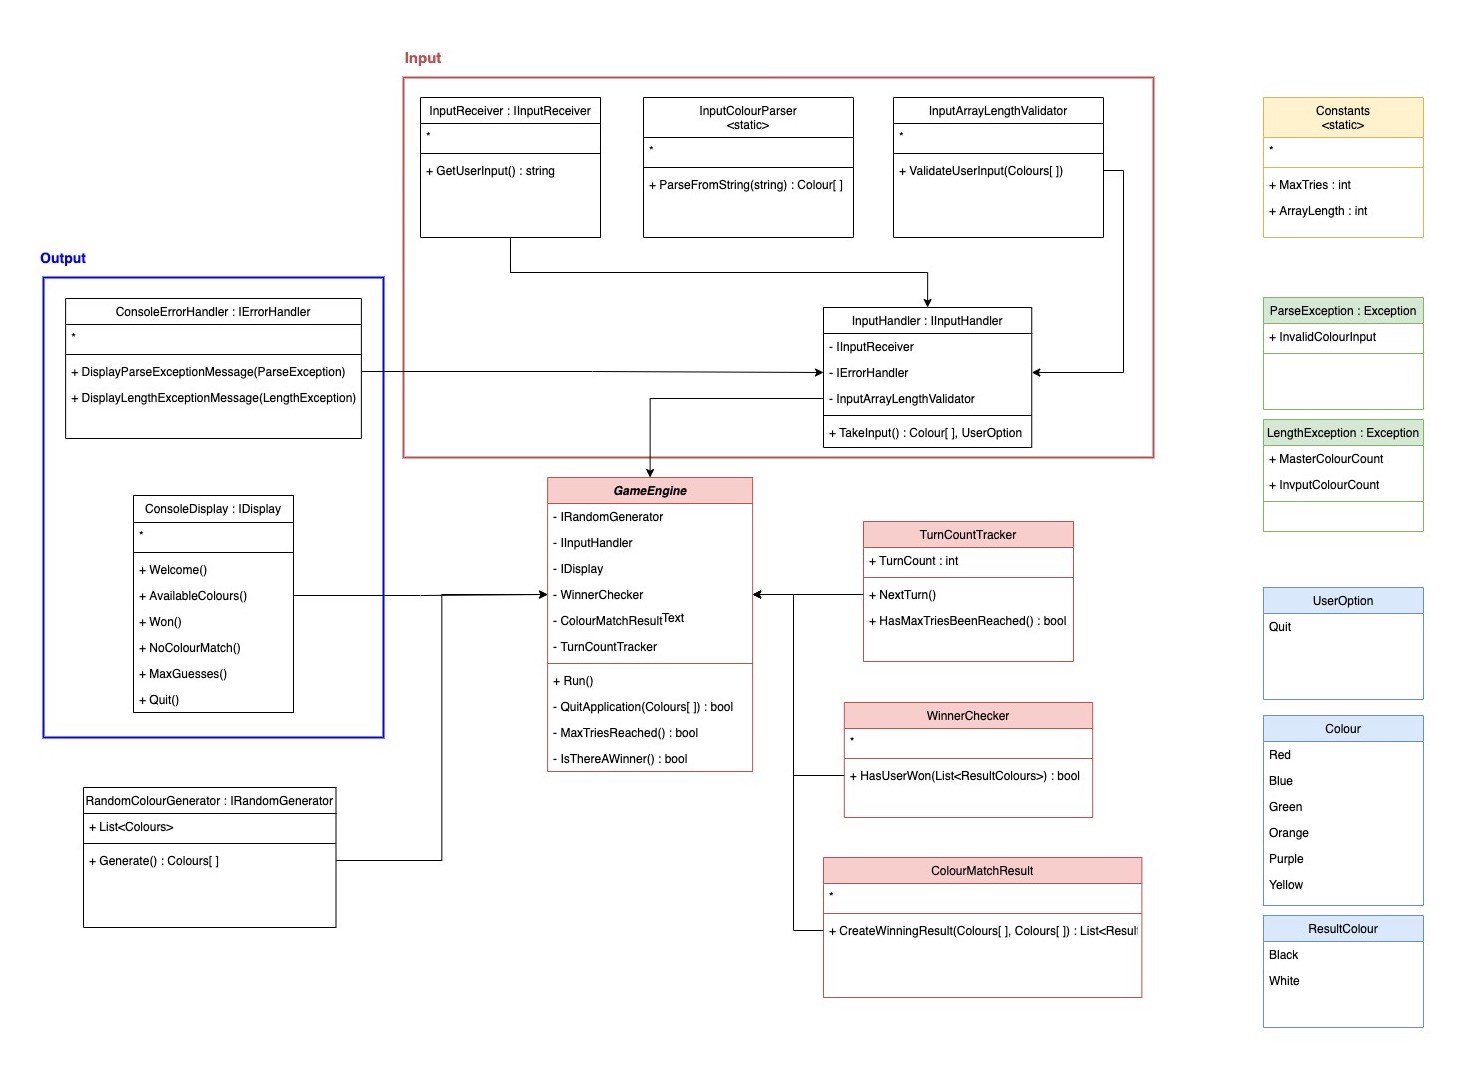
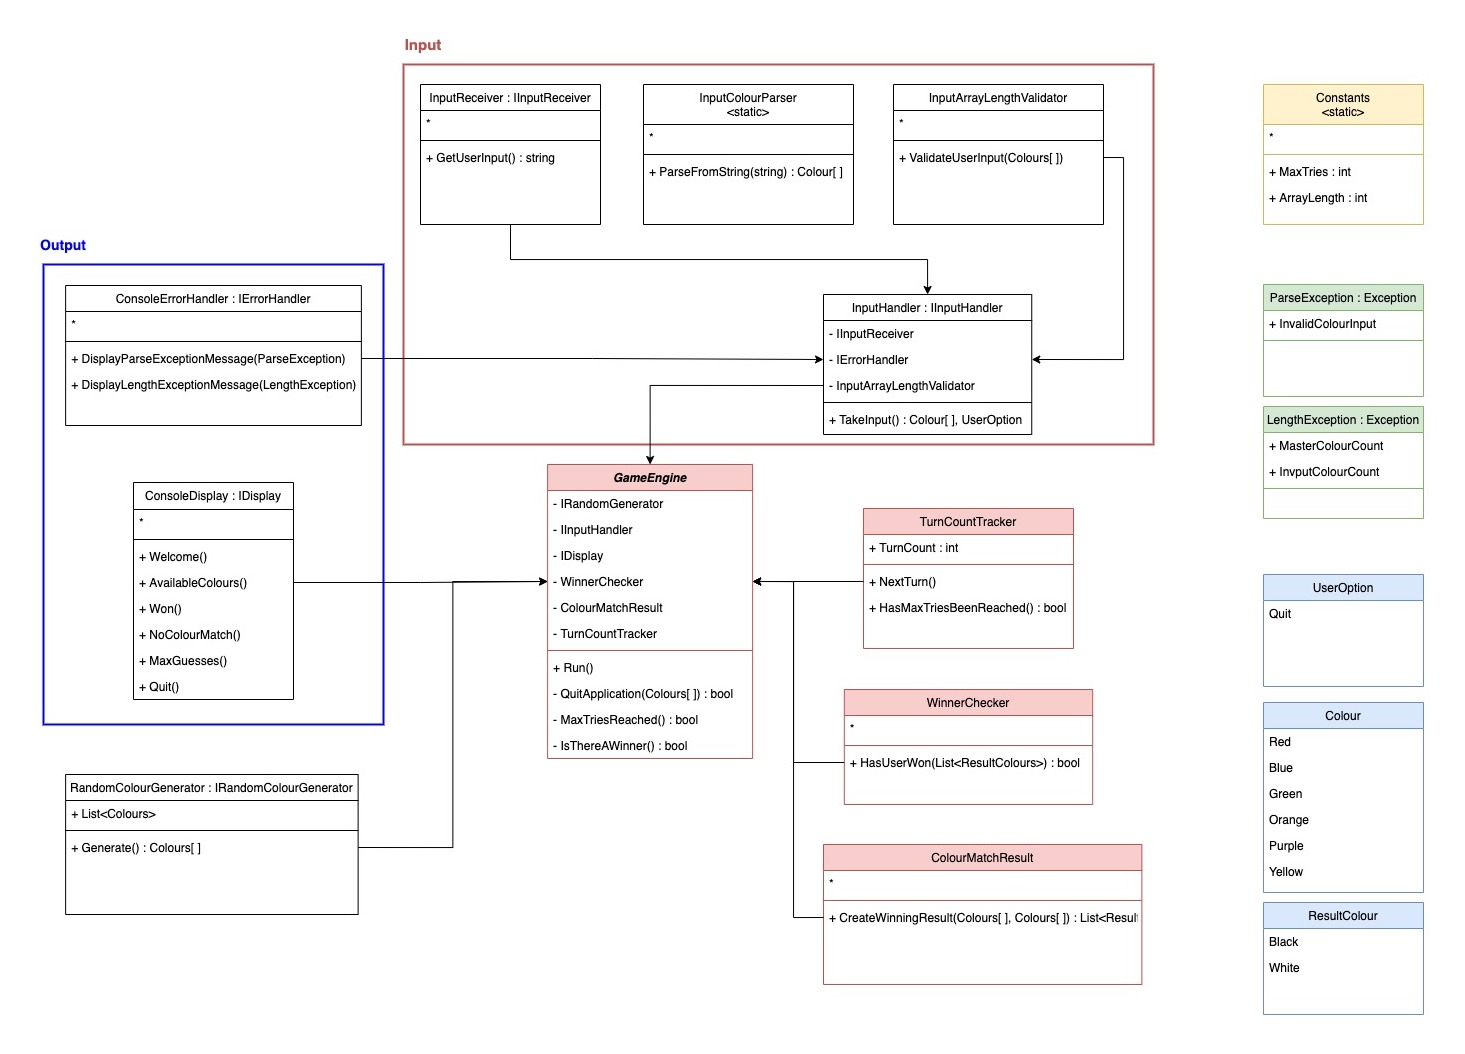
updated class diagram and renaming

diff --git a/MastermindTests/GameEngineTests.cs b/MastermindTests/GameEngineTests.cs
@@ -11,7 +11,7 @@ namespace MastermindTests
         [Fact]
         public void GivenCorrectGuess_LoopShouldStop_AndPrintWinMessage()
         {
-            var mockRandomGen = new Mock<IRandomGenerator>();
+            var mockRandomGen = new Mock<IRandomColourGenerator>();
             mockRandomGen.Setup(rng => rng.Generate())
                 .Returns(new[] { Colour.Blue, Colour.Blue, Colour.Blue, Colour.Blue });
             var mockInputHandler = new Mock<IInputHandler>();
@@ -30,7 +30,7 @@ namespace MastermindTests
         [Fact]
         public void GivenNoColourMatches_ShouldDisplayNoMatchMessage()
         {
-            var mockRandomGen = new Mock<IRandomGenerator>();
+            var mockRandomGen = new Mock<IRandomColourGenerator>();
             mockRandomGen.Setup(rng => rng.Generate())
                 .Returns(new[] { Colour.Blue, Colour.Blue, Colour.Blue, Colour.Blue });
             var mockInputHandler = new Mock<IInputHandler>();
@@ -46,13 +46,12 @@ namespace MastermindTests
             mockRandomGen.Verify(rng => rng.Generate(), Times.Once);
             mockInputHandler.Verify(ge => ge.TakeInput(), Times.Exactly(3));
             mockDisplay.Verify(i => i.NoColourMatch(), Times.Once);
-            mockDisplay.Verify(w => w.Win(), Times.Once);
         }
         
         [Fact]
-        public void GivenMaxTries60Reached_ShouldDisplayMaxGuessesMessage_AndQuit()
+        public void GivenMaxTries60Reached_ShouldDisplayMaxGuessesMessage()
         {
-            var mockRandomGen = new Mock<IRandomGenerator>();
+            var mockRandomGen = new Mock<IRandomColourGenerator>();
             mockRandomGen.Setup(rng => rng.Generate())
                 .Returns(new[] { Colour.Blue, Colour.Blue, Colour.Blue, Colour.Blue });
             var mockInputHandler = new Mock<IInputHandler>();
@@ -71,12 +70,11 @@ namespace MastermindTests
         [Fact]
         public void GivenUserInput_IsUserOptionQuit_ShouldQuitGame()
         {
-            var mockRandomGen = new Mock<IRandomGenerator>();
+            var mockRandomGen = new Mock<IRandomColourGenerator>();
             mockRandomGen.Setup(rng => rng.Generate())
                 .Returns(new[] { Colour.Blue, Colour.Blue, Colour.Blue, Colour.Blue });
             var mockInputHandler = new Mock<IInputHandler>();
-            mockInputHandler.SetupSequence(ge => ge.TakeInput())
-                .Returns(new[] { Colour.Red, Colour.Blue, Colour.Blue, Colour.Blue })
+            mockInputHandler.Setup(ge => ge.TakeInput())
                 .Returns(UserOption.Quit);
             var mockDisplay = new Mock<IDisplay>();
             
@@ -84,7 +82,7 @@ namespace MastermindTests
             gameEngine.Run();
 
             mockRandomGen.Verify(rng => rng.Generate(), Times.Once);
-            mockInputHandler.Verify(i => i.TakeInput(), Times.Exactly(2));
+            mockInputHandler.Verify(i => i.TakeInput(), Times.Exactly(1));
             mockDisplay.Verify(q => q.Quit(), Times.Once);
         }
     }

diff --git a/Mastermind/GameEngine.cs b/Mastermind/GameEngine.cs
@@ -7,16 +7,16 @@ namespace Mastermind
 {
     public class GameEngine
     {
-        private readonly IRandomGenerator _randomGenerator;
+        private readonly IRandomColourGenerator _randomColourGenerator;
         private readonly IInputHandler _inputHandler;
         private readonly IDisplay _display;
         private readonly ColourMatchResult _colourMatchResult;
         private readonly TurnCountTracker _turnCountTracker;
         private readonly WinnerChecker _winnerChecker;
 
-        public GameEngine(IRandomGenerator randomGenerator, IInputHandler inputHandler, IDisplay display)
+        public GameEngine(IRandomColourGenerator randomColourGenerator, IInputHandler inputHandler, IDisplay display)
         {
-            _randomGenerator = randomGenerator;
+            _randomColourGenerator = randomColourGenerator;
             _inputHandler = inputHandler;
             _display = display;
             _colourMatchResult = new ColourMatchResult();
@@ -30,15 +30,15 @@ namespace Mastermind
             _display.DisplayAvailableColours();
             var hasAWinner = false;
             
-            var masterColours = _randomGenerator.Generate();
+            var masterColours = _randomColourGenerator.Generate();
             //Console.WriteLine("MASTER COLOURS: "+ string.Join(", ", masterColours));
 
             while (!hasAWinner && !HasMaxTriesReached())
             {
-                // get validated input
+                // Get validated input
                 var userAnswer = _inputHandler.TakeInput();
 
-                // user selected menu option
+                // User selected menu option
                     // - extension method to make class more explicit and more descriptive
                 if (userAnswer.GetSelectedAlternative() == 2)
                 {
@@ -52,7 +52,7 @@ namespace Mastermind
                 
                 var matchResult = _colourMatchResult.CreateResult(userSelectedColours, masterColours);
 
-                // check for any matches
+                // Check for any matches
                 if (matchResult.Count != 0)
                 {
                     _display.TurnCounter(_turnCountTracker.Counter, matchResult);

diff --git a/Mastermind/RandomColourColourGenerator.cs b/Mastermind/RandomColourColourGenerator.cs
@@ -4,11 +4,11 @@ using Mastermind.Interfaces;
 
 namespace Mastermind
 {
-    public class RandomColourGenerator : IRandomGenerator
+    public class RandomColourColourGenerator : IRandomColourGenerator
     {
         private readonly Colour[] _selectedColours;
 
-        public RandomColourGenerator(int numOfColours)
+        public RandomColourColourGenerator(int numOfColours)
         {
             _selectedColours = new Colour[numOfColours];
         }

diff --git a/MastermindTests/RandomColourGeneratorTests.cs b/MastermindTests/RandomColourGeneratorTests.cs
@@ -10,9 +10,9 @@ namespace MastermindTests
         [Fact]
         public void GenerateFourRandomColours_WhenGameBegins()
         {
-            var randomGenerator = new RandomColourGenerator(4);
+            var randomColourGenerator = new RandomColourColourGenerator(4);
 
-            var result = randomGenerator.Generate();
+            var result = randomColourGenerator.Generate();
 
             Assert.Equal(4, result.Length);
         }

diff --git a/Mastermind/Program.cs b/Mastermind/Program.cs
@@ -4,7 +4,7 @@
     {
         static void Main(string[] args)
         {
-            var randomGen = new RandomColourGenerator(Constants.MasterColoursCount);
+            var randomGen = new RandomColourColourGenerator(Constants.MasterColoursCount);
             var inputReceiver = new InputReceiver();
             var errorHandler = new ConsoleErrorHandler();
             var consoleDisplay = new ConsoleDisplay();

diff --git a/Mastermind/Interfaces/IRandomColourGenerator.cs b/Mastermind/Interfaces/IRandomColourGenerator.cs
@@ -2,7 +2,7 @@ using Mastermind.Enums;
 
 namespace Mastermind.Interfaces
 {
-    public interface IRandomGenerator
+    public interface IRandomColourGenerator
     {
         public Colour[] Generate();
     }
